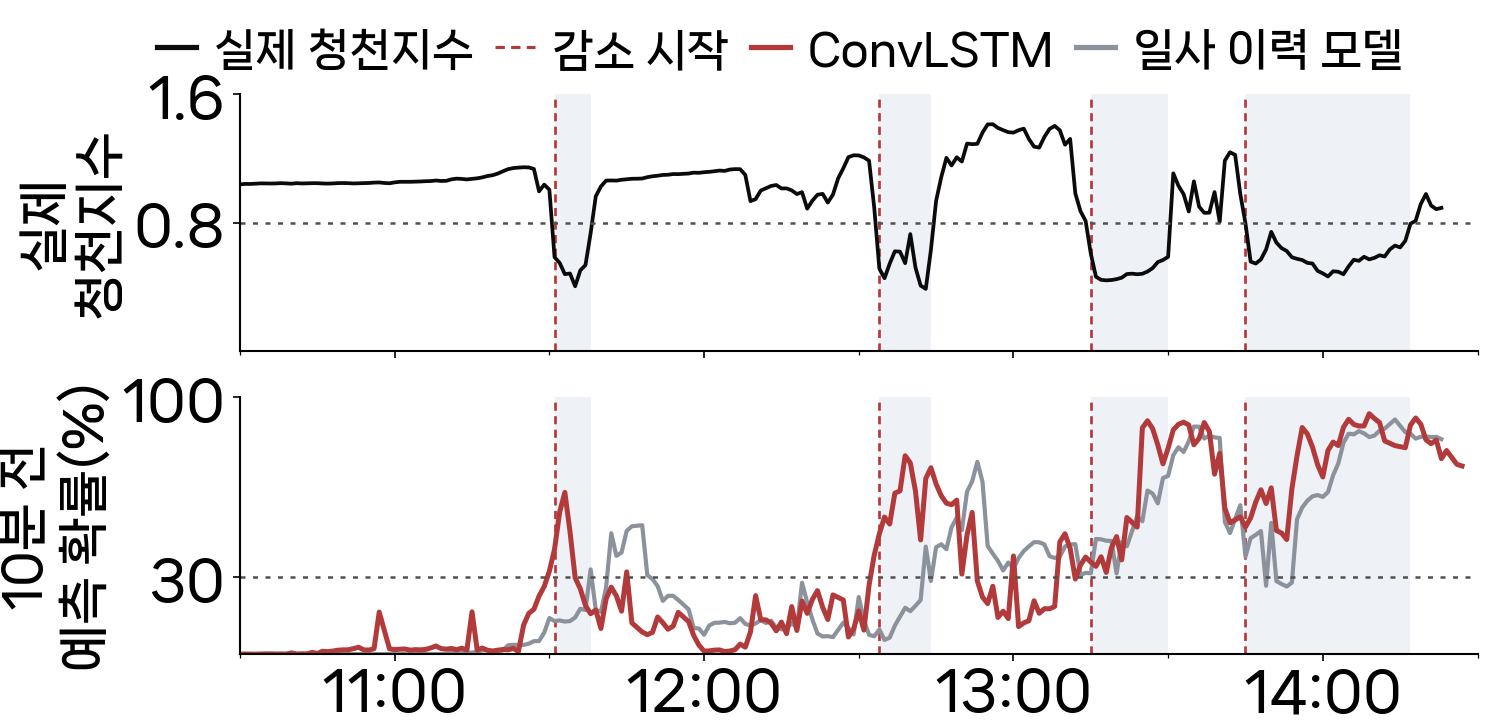
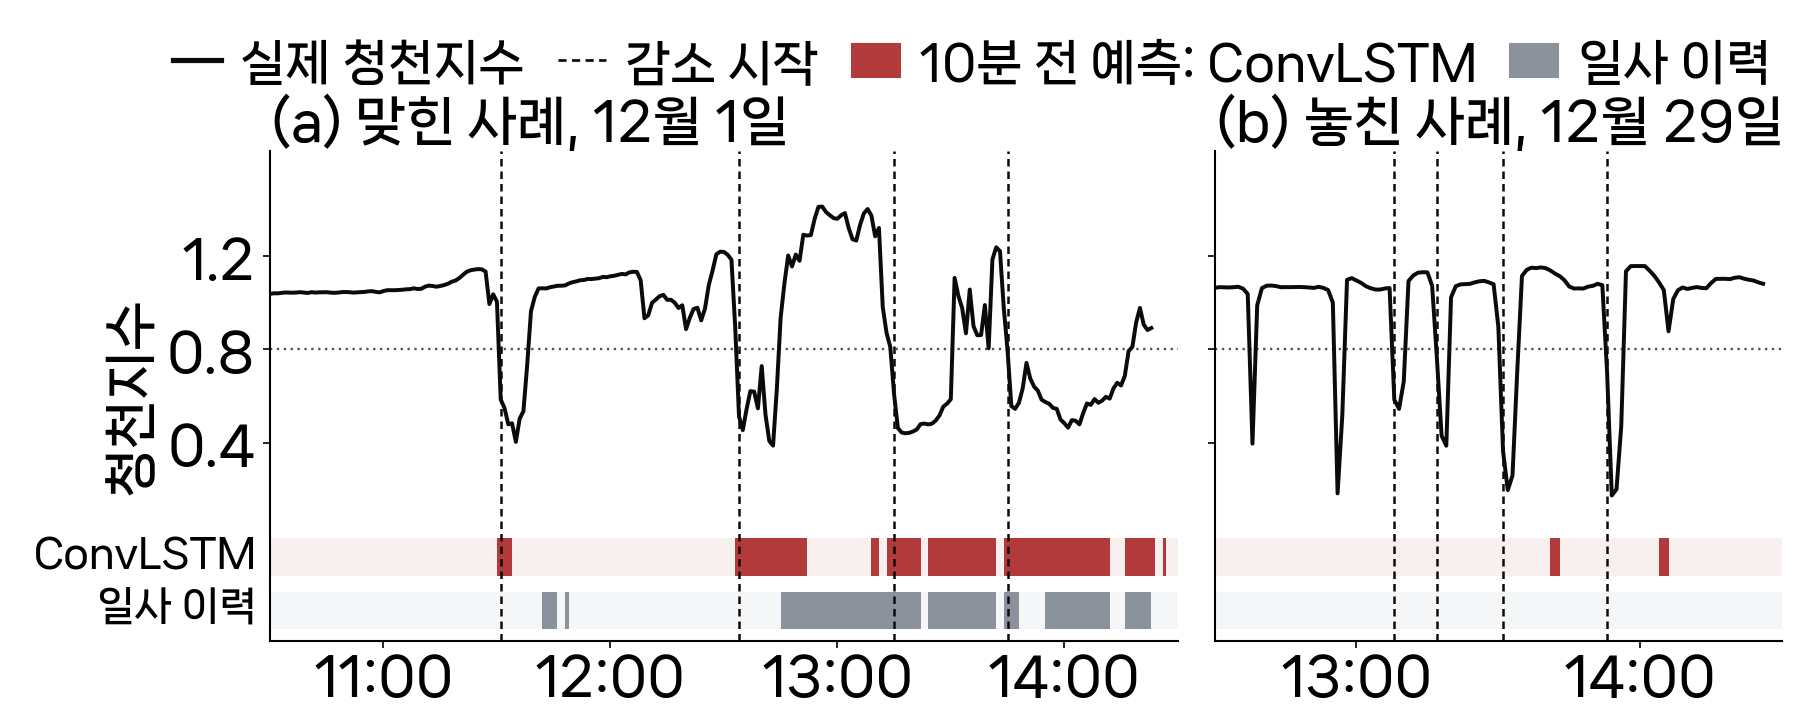
Fig. 7 narrow, Fig. 8 hit and miss cases

diff --git a/README.md b/README.md
@@ -17,8 +17,8 @@
 | [Fig. 4](figures/fig4_cloud_detection.png) | 원본 영상의 Green/Blue 색비와 색비 편차로 화소별 구름 확률을 구해 구름을 판별하는 과정 |
 | [Fig. 5](figures/fig5_case.png) | 일사 차단 사례(2015-12-19 13:50)의 전천영상, 실측 청천지수, 10분 전에 예측한 청천지수 0.6 미만 확률(예측 대상 시각에 맞춰 표시) |
 | [Fig. 6](figures/fig6_sky_states.png) | 맑음, 구름 이동, 흐림 상태의 예측 시점 전천영상 |
-| [Fig. 7](figures/fig7_performance.png) | 두 모델의 10분 전 일사 감소 시작 예측 성능(재현율, 정밀도, F1) |
-| [Fig. 8](figures/fig8_after10min.png) | 실제 청천지수와 10분 전 예측 확률(2015.12.01). 예측했으나 감소하지 않은 사례: [구름 가장자리](figures/fig8_case_cloud_edge.png), [얇은 구름](figures/fig8_case_thin_cloud.png) |
+| [Fig. 7](figures/fig7_performance.png) | 두 모델의 10분 전 예측 성능(재현율, 정밀도, F1) |
+| [Fig. 8](figures/fig8_after10min.png) | 10분 전 예측과 실제 청천지수의 비교 사례(2015년 12월): (a) 맞힌 사례 12월 1일, (b) 놓친 사례 12월 29일. 다른 오탐 사례: [구름 가장자리](figures/fig8_case_cloud_edge.png), [얇은 구름](figures/fig8_case_thin_cloud.png) |
 
 ## 주요 결과 (12~2월)
 
